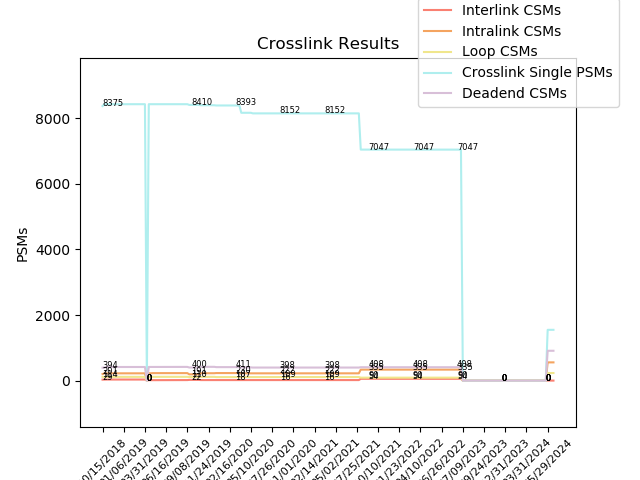
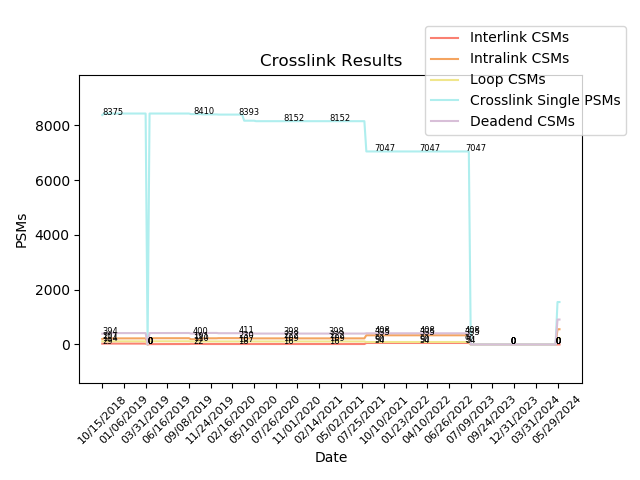
adjusted the montly plotting to display all dates on the x axis

diff --git a/PlotGeneration/GenerateTaskTimePlot_SemiNonModernXLGlyco.py b/PlotGeneration/GenerateTaskTimePlot_SemiNonModernXLGlyco.py
@@ -41,4 +41,5 @@ b5 = pyplot.bar(x, y5, width=width, bottom=y1+y2+y3+y4, color=colorDict["Glyco"]
 
 pyplot.legend((b1[0], b2[0], b3[0], b4[0], b5[0]), ('Semi-Specific', 'Non-Specific', 'Cross Link', 'Modern', 'Glyco'), bbox_to_anchor=(1.1, 1.18), loc=1)
 
+pyplot.tight_layout()
 pyplot.savefig(os.path.join(directory, 'TaskTimeReport_SemiNonModernXLGlyco.png'))

diff --git a/PlotGeneration/GenerateTaskTimePlot_TopDown.py b/PlotGeneration/GenerateTaskTimePlot_TopDown.py
@@ -45,4 +45,5 @@ b7 = pyplot.bar(x, y7, width=width, bottom=y1+y2+y3+y4+y5+y6, color=colorDict["T
 
 pyplot.legend((b1[0], b2[0], b4[0], b6[0]), ('Search', 'Calibration', 'Averaging', 'GPTMD'), bbox_to_anchor=(1.1, 1.18), loc=1)
 
+pyplot.tight_layout()
 pyplot.savefig(os.path.join(directory,'TaskTimeReport_TopDown.png'))

diff --git a/PlotGeneration/GenerateTaskTimePlot.py b/PlotGeneration/GenerateTaskTimePlot.py
@@ -41,4 +41,5 @@ b5 = pyplot.bar(x, y5, width=width, bottom=y1+y2+y3+y4, color=colorDict["Search"
 
 pyplot.legend((b1[0], b2[0], b4[0]), ('Search', 'Calibration', 'GPTMD'), bbox_to_anchor=(1.1, 1.18), loc=1)
 
+pyplot.tight_layout()
 pyplot.savefig(os.path.join(directory, 'TaskTimeReport.png'))

diff --git a/PlotGeneration/GeneratePeptidePlot_SemiNonModern.py b/PlotGeneration/GeneratePeptidePlot_SemiNonModern.py
@@ -56,5 +56,7 @@ for i, txt in enumerate(y3):
 	step = max(1, len(y3) // 10) 
 	if i % step == 0:
 		pyplot.annotate(txt, (x[i],y3[i]), fontsize=6)
+		
 # save the plot
+pyplot.tight_layout()
 pyplot.savefig(os.path.join(directory, 'PeptideReport_SemiNonModern.png'))

diff --git a/PlotGeneration/GeneratePsmPlot_SemiNonModernGlyco.py b/PlotGeneration/GeneratePsmPlot_SemiNonModernGlyco.py
@@ -64,4 +64,5 @@ for i, txt in enumerate(y4):
 		pyplot.annotate(txt, (x[i],y4[i]), fontsize=6)
 
 # save the plot
+pyplot.tight_layout()
 pyplot.savefig(os.path.join(directory, 'PSMReport_SemiNonModernGlyco.png'))

diff --git a/PlotGeneration/GenerateProteoformPlot_TopDown.py b/PlotGeneration/GenerateProteoformPlot_TopDown.py
@@ -64,4 +64,5 @@ for i, txt in enumerate(y4):
 		pyplot.annotate(txt, (x[i],y4[i]), fontsize=6)
 
 # save the plot
+pyplot.tight_layout()
 pyplot.savefig(os.path.join(directory, 'ProteoformReport_TopDown.png'))

diff --git a/PlotGeneration/GeneratePsmPlot_TopDown.py b/PlotGeneration/GeneratePsmPlot_TopDown.py
@@ -64,4 +64,5 @@ for i, txt in enumerate(y4):
 		pyplot.annotate(txt, (x[i],y4[i]), fontsize=6)
 
 # save the plot
+pyplot.tight_layout()
 pyplot.savefig(os.path.join(directory, 'PSMReport_TopDown.png'))

diff --git a/PlotGeneration/GeneratePeptidePlot.py b/PlotGeneration/GeneratePeptidePlot.py
@@ -57,4 +57,5 @@ for i, txt in enumerate(y3):
 		pyplot.annotate(txt, (x[i],y3[i]), fontsize=6)
 
 # save the plot
+pyplot.tight_layout()
 pyplot.savefig(os.path.join(directory, 'PeptideReport.png'))

diff --git a/PlotGeneration/GeneratePsmPlot.py b/PlotGeneration/GeneratePsmPlot.py
@@ -58,4 +58,5 @@ for i, txt in enumerate(y3):
 		pyplot.annotate(txt, (x[i],y3[i]), fontsize=6)
 
 # save the plot
+pyplot.tight_layout()
 pyplot.savefig(os.path.join(directory, 'PSMReport.png'))

diff --git a/PlotGeneration/GeneratePsmPlot_CrossLink.py b/PlotGeneration/GeneratePsmPlot_CrossLink.py
@@ -71,4 +71,5 @@ for i, txt in enumerate(y5):
 
 
 # save the plot
+pyplot.tight_layout()
 pyplot.savefig(os.path.join(directory, 'PSMReport_CrossLink.png'))
